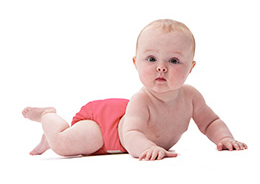
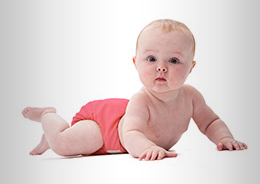
Lots of tweaks and nudges as we draw closer to release.

diff --git a/Content/master.css b/Content/master.css
@@ -7,12 +7,11 @@ body {
     font-family: "proxima-nova", sans-serif;
     font-style: normal;
     font-weight: 400;
+    letter-spacing: normal;
 }
-
 a {
-    color:rgb(100, 200, 255);
+    color:rgb(2, 159, 235);
 }
-
 a:link {
     color:rgb(2, 85, 235);
     padding-left: 0px;
@@ -20,11 +19,9 @@ a:link {
     text-decoration: none;
     display: inline;
 }
-
 a:hover {
     color:rgb(2, 85, 235);
 }
-
 a:active {
     color:rgb(255, 255, 255);
 }
@@ -42,45 +39,43 @@ nav, section {
     display: block;
     width: 100%;
 }
-
 h1, h2 {
-    font-family: "ff-tisa-web-pro", sans-serif;
+    font-family: "chaparral-pro-display", /*"ff-tisa-web-pro",*/ serif;
     font-style: normal;
     margin: 10px 0px 15px 0px;
     line-height: 1;
 }
-
  h3, h4 {
-    font-family: "proxima-nova", serif;
+    font-family: "proxima-nova", sans-serif;
     font-style: normal;
-    font-weight: 600;
     margin: 0px 0px 10px 0px;
     color: rgb(255, 255, 255);
     line-height: 1;
 }
-
-
 h1 { /*Main Page Header*/
     font-size: 2em;
-    font-weight: 700;
+    font-style: normal;
+    font-weight:700;
+    letter-spacing: .01em;
     color: rgb(255, 255, 255);
     text-shadow: 1px 1px 1px #000;
 }
-
 h2 { /*Sub Header*/
     font-size: 1.5em;
-    text-shadow: 1px 1px 1px #000;
     color: rgb(251, 188, 0);
     font-weight: 400;
-    
+    letter-spacing: .03em;
+    text-shadow: 1px 1px 1px #000;
 }
 h3 { /*Paragraph Heading */
     font-size: 1.25em;
+    font-weight: 600;
        
 }
 h4 { /*Use for Paragraph Sub-Headings*/
     font-size: 1em;
     font-style: italic;
+    font-weight: 600;
 }
 p {
     font-size: .90em;
@@ -133,14 +128,14 @@ strong {
     height: 0;
     visibility: hidden;
 }
-.wf-loading h1, h2 {
-  /* styles to use before Typekit is loaded */
-   font-family: "ff-tisa-web-pro", serif;
+ .wf-loading h1, h2 {
+  /*styles to use before Typekit is loaded*/ 
+   font-family: "chaparral-pro-displa", serif;
    visibility: hidden;
 }
 .wf-active  h1, h2 {
-  /* styles to use after Typekit is loaded */
-   font-family: "ff-tisa-web-pro", serif;
+   /*styles to use after Typekit is loaded */
+   font-family: "chaparral-pro-displa", serif;
    visibility: visible;
 }
 a[href $='.pdf'] {
@@ -237,17 +232,21 @@ h5.logo a {
 
 .imgwrapper {
     position: relative;
-    width: 280px;
+    width: 260px;
 }
 .imgcontainer {
-    background-color: #dcdedf;
+    /*background-color:rgb(2, 159, 235);*/
+    background: transparent;
     width: 260px;
     text-align: center;
-    padding: 10px;
+    padding: 1px;
     max-height: 185px;
     vertical-align: middle;
     margin-bottom: 20px;
-    border: 1px solid #ccc;
+}
+.new {
+    float:right; 
+    margin: 5px 0px 8px 0px;
 }
 footer {
     clear: both;

diff --git a/Controllers/PressController.cs b/Controllers/PressController.cs
@@ -22,13 +22,8 @@ namespace Zeta.Controllers
         {
             return View();
         }
-        
-        public ActionResult Media()
-        {
-            return View();
-        }
 
-        public ActionResult PressReleases()
+        public ActionResult New()
         {
             return View();
         }
